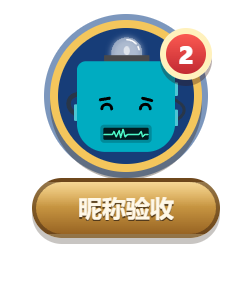
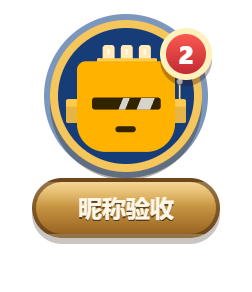
Remove top crown decoration

Changed region(s): [[0.25, 0.1233, 0.75, 0.524]]

diff --git a/src/renderer/main.jsx b/src/renderer/main.jsx
@@ -431,7 +431,6 @@ function RoyalFrame({ title, emblem = "shield", headerActions, onClose, children
           <RoyalBadge type={emblem} size="small" />
           <strong>{title}</strong>
         </div>
-        <div className="royal-frame-crown"><Crown size={46} /></div>
         <div className="royal-frame-actions">
           {headerActions}
           <button
@@ -972,7 +971,6 @@ function AuthScreen({ serverBaseUrl, setServerBaseUrl, loading, error, onSubmit,
             <div className="royal-mini-shield"><Crown size={25} /></div>
             <strong>登录</strong>
           </div>
-          <div className="royal-crown-top"><Crown size={44} /></div>
           <button className="royal-close" type="button" onClick={() => window.gorilla?.closeWindow?.()} title="关闭">
             <X size={34} />
           </button>

diff --git a/scripts/capture-ui.js b/scripts/capture-ui.js
@@ -90,7 +90,7 @@ async function seedDemoData() {
 function registerIpc(paths, config) {
   ipcMain.handle("app:get-info", async () => ({
     name: "Gorilla Jira",
-    version: "1.0.16",
+    version: "1.0.17",
     isPackaged: false,
     serverPort: PORT,
     localIps: ["127.0.0.1"],
@@ -199,7 +199,7 @@ app.whenReady().then(async () => {
     paths,
     port: PORT,
     getConfig: () => config,
-    getAppVersion: () => "1.0.16"
+    getAppVersion: () => "1.0.17"
   });
   registerIpc(paths, config);
 

diff --git a/docs/部署与使用说明.md b/docs/部署与使用说明.md
@@ -5,7 +5,7 @@
 当前安装包位置：
 
 ```text
-D:\gorilla_jira\release\Gorilla Jira Setup 1.0.16.exe
+D:\gorilla_jira\release\Gorilla Jira Setup 1.0.17.exe
 ```
 
 未安装版可执行文件位置：
@@ -64,10 +64,10 @@ https://github.com/HanStrive/jira/releases/latest
 
 发布新版流程：
 
-1. 修改功能后提升 `package.json` 版本号，例如 `1.0.16`。
+1. 修改功能后提升 `package.json` 版本号，例如 `1.0.17`。
 2. 执行 `npm run dist` 生成安装包。
-3. 在 GitHub 仓库创建 Release，tag 建议使用 `v1.0.16`。
-4. 上传 `release/Gorilla Jira Setup 1.0.16.exe` 到该 Release 的 Assets。
+3. 在 GitHub 仓库创建 Release，tag 建议使用 `v1.0.17`。
+4. 上传 `release/Gorilla Jira Setup 1.0.17.exe` 到该 Release 的 Assets。
 
 客户端进入设置页会自动检查最新 Release；如果 GitHub 上的版本号高于本地版本，“软件版本”卡片会显示红点，点击后会打开新版安装包下载地址。如果只推了 tag 但还没有创建 Release 安装包，客户端也会显示红点，但点击后会打开 Releases 页面并提示需要上传安装包。
 

diff --git a/docs/9比16窗口与三张效果图改造计划.md b/docs/9比16窗口与三张效果图改造计划.md
@@ -225,7 +225,7 @@
 关于：
 
 - 软件版本。
-  - 显示当前 `appInfo.version`，例如 `1.0.16` 或后续版本。
+  - 显示当前 `appInfo.version`，例如 `1.0.17` 或后续版本。
 - 用户协议与隐私政策。
   - 当前可以先作为只读弹窗或占位说明页。
 
